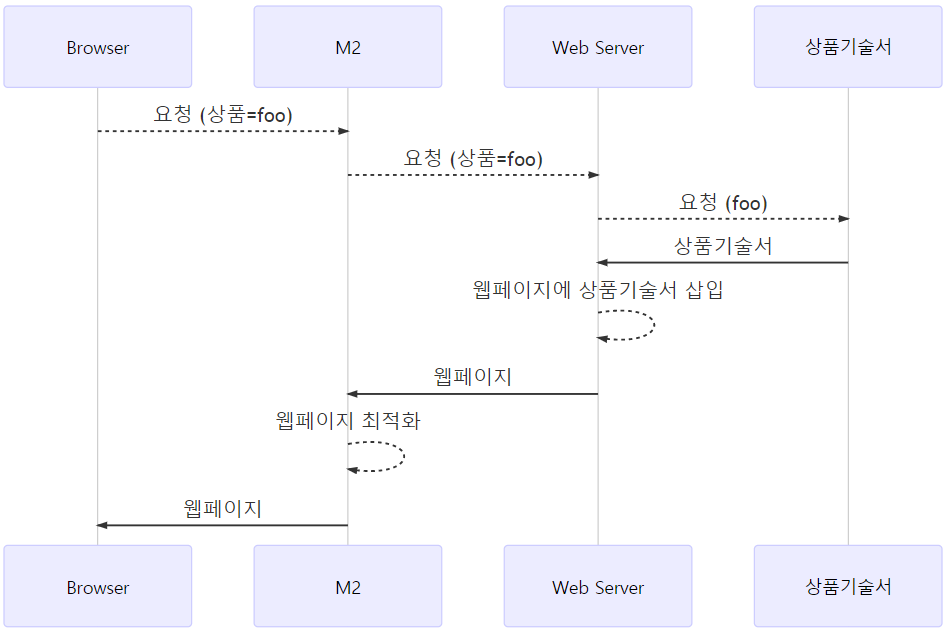
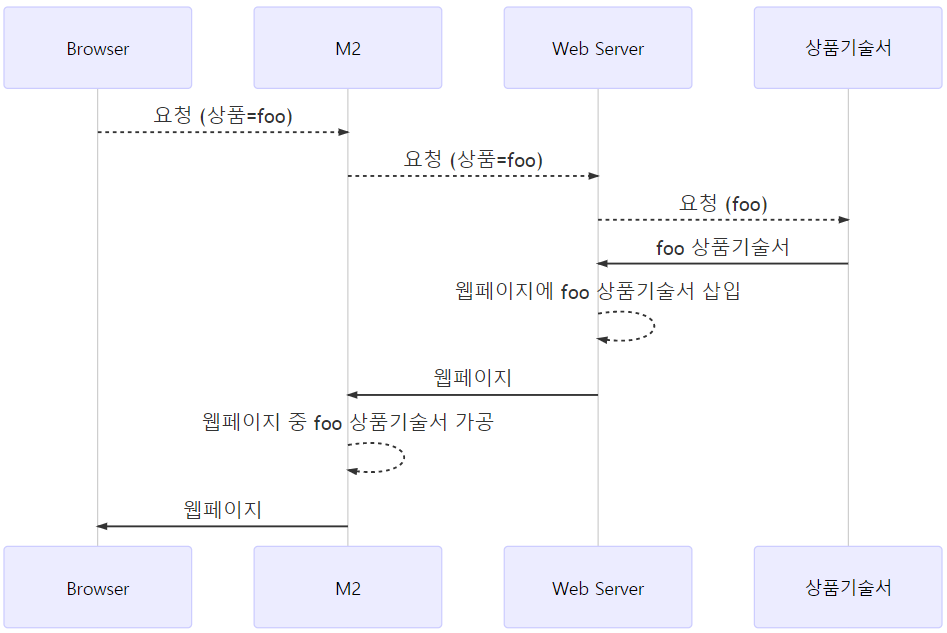
1
1

diff --git a/patterns/appendix_decoupling.rst b/patterns/appendix_decoupling.rst
@@ -39,16 +39,16 @@ AS-IS
    :align: center
 
 
-이 구조는 중첩관계로 인해 종속성(Dependency)가 높다.
+이 구조는 중첩관계로 인해 종속성(Dependency)이 높다.
 다시 말해 상품기술서 장애가 웹페이지 전체 장애로 이어진다.
 
-위 구조에서 ``M2`` 가 도입되면 다음과 같다.
+위 구조에서 ``M2`` 가 도입되면 종속성이 더 상승한다.
 
 .. figure:: img/rsc009.png
    :align: center
 
 
-종속성이 더 상승했으며 Browser는 백엔드의 모두가 성공하는 경우에만 페이지를 볼 수 있다.
+Browser는 아주 운좋게 백엔드 모두가 성공하는 경우에만 웹페이지를 볼 수 있다.
 
 
 
@@ -61,8 +61,8 @@ TO-BE
    :align: center
 
 
-상품기술서의 장애가 전체페이지 장애로 이어지던 상황이 제거된다.
-로딩방식은 ``RESTful API`` , ``<iframe>`` , ``<DIV> 코드조각`` 어느 것이든 무관하다. 
+상품기술서 장애가 전체페이지 장애로 이어지던 상황이 제거된다.
+로딩방식은 ``RESTful API/JSON`` , ``<iframe>`` , ``<DIV> 코드조각`` 어느 것이든 무관하다. 
 
 .. figure:: img/rsc011.png
    :align: center
